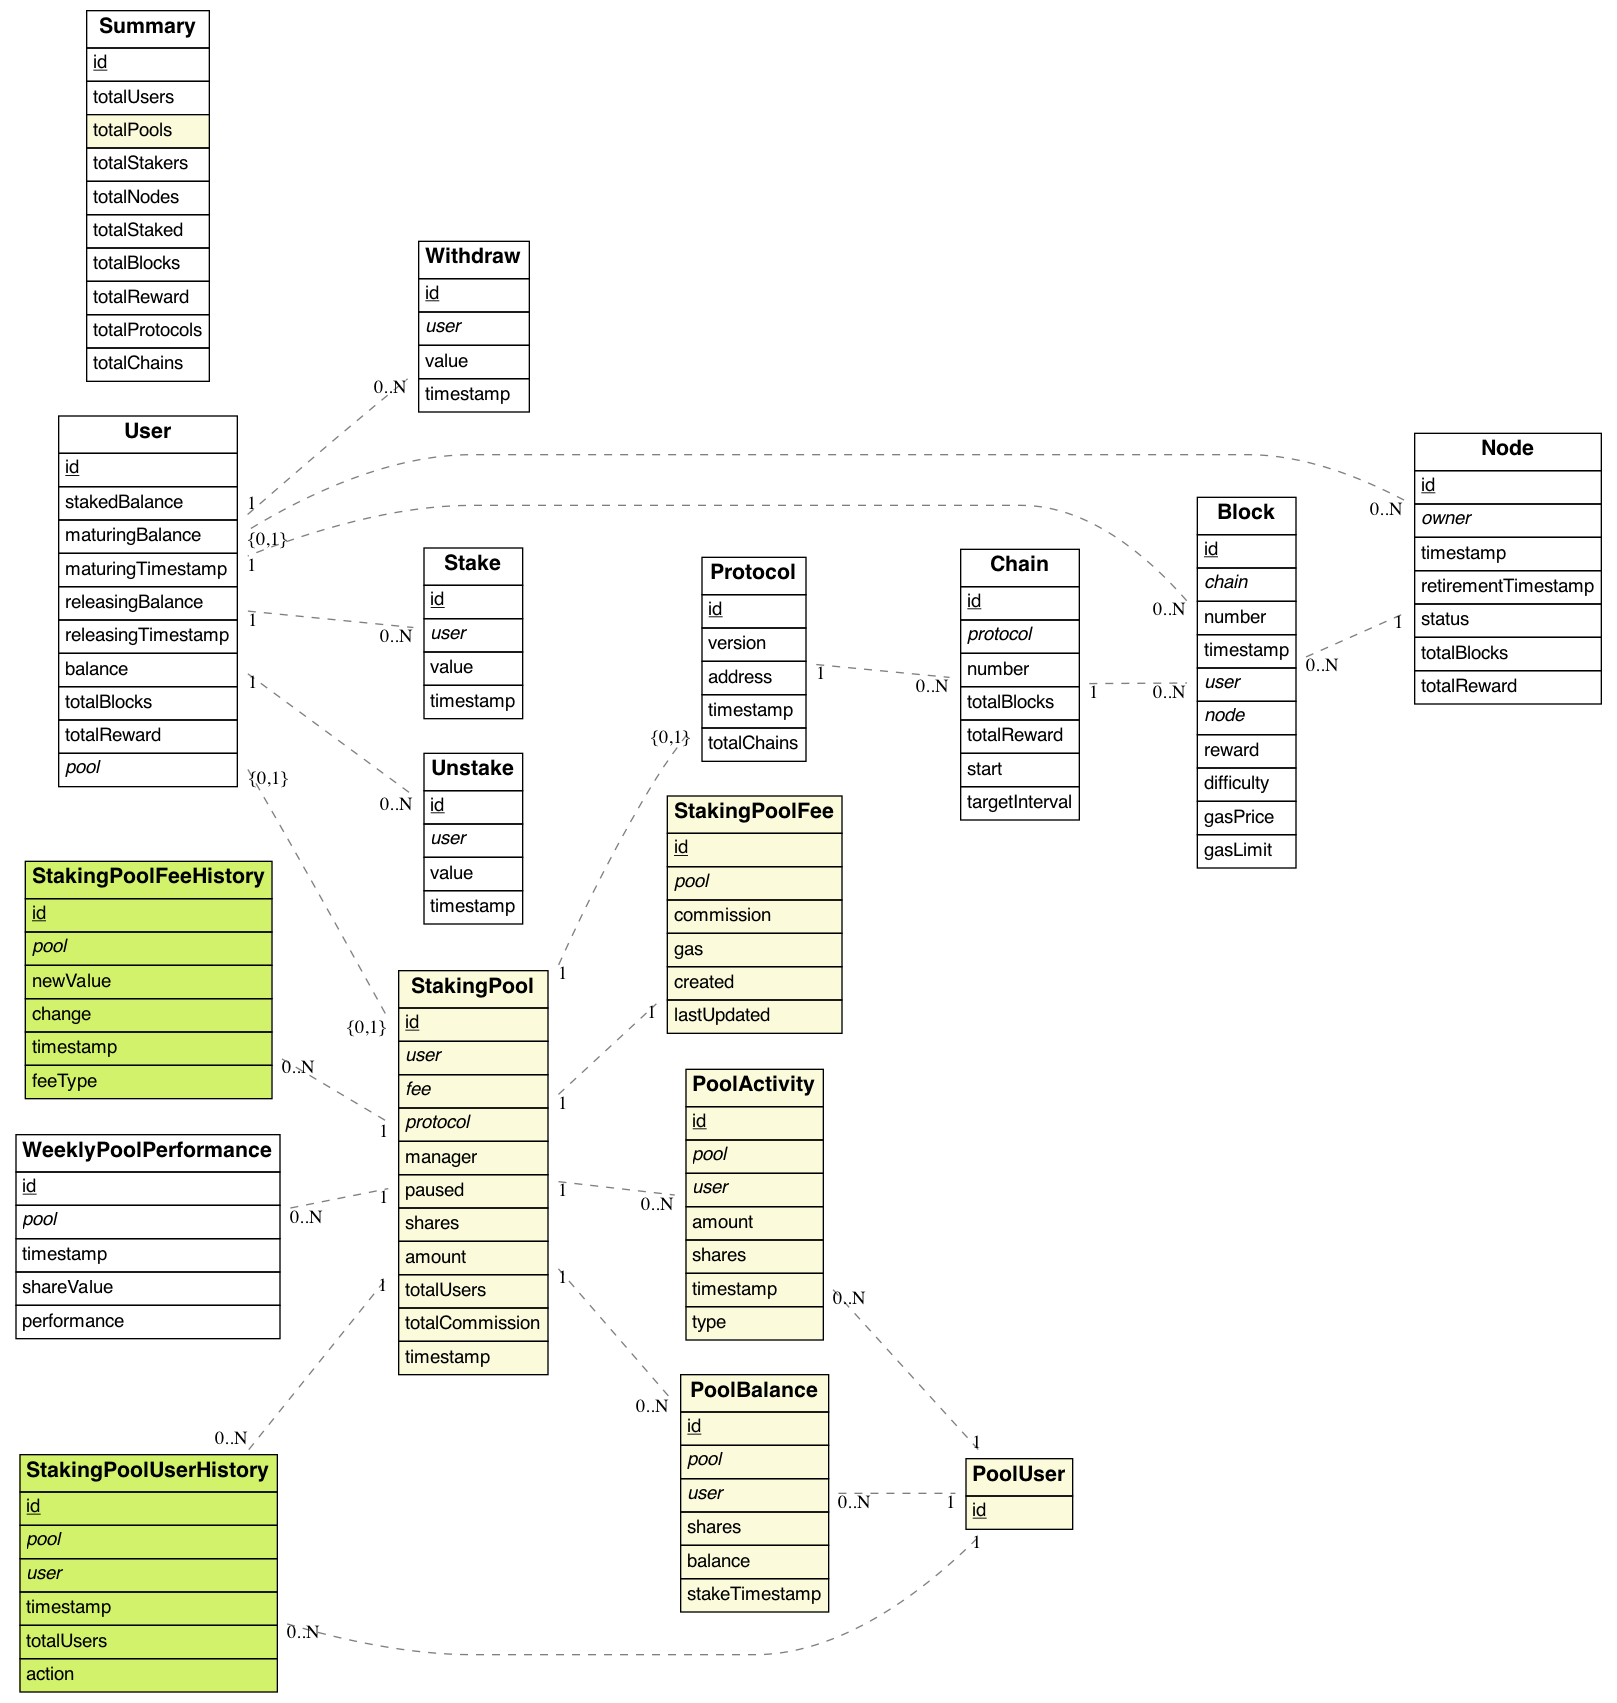
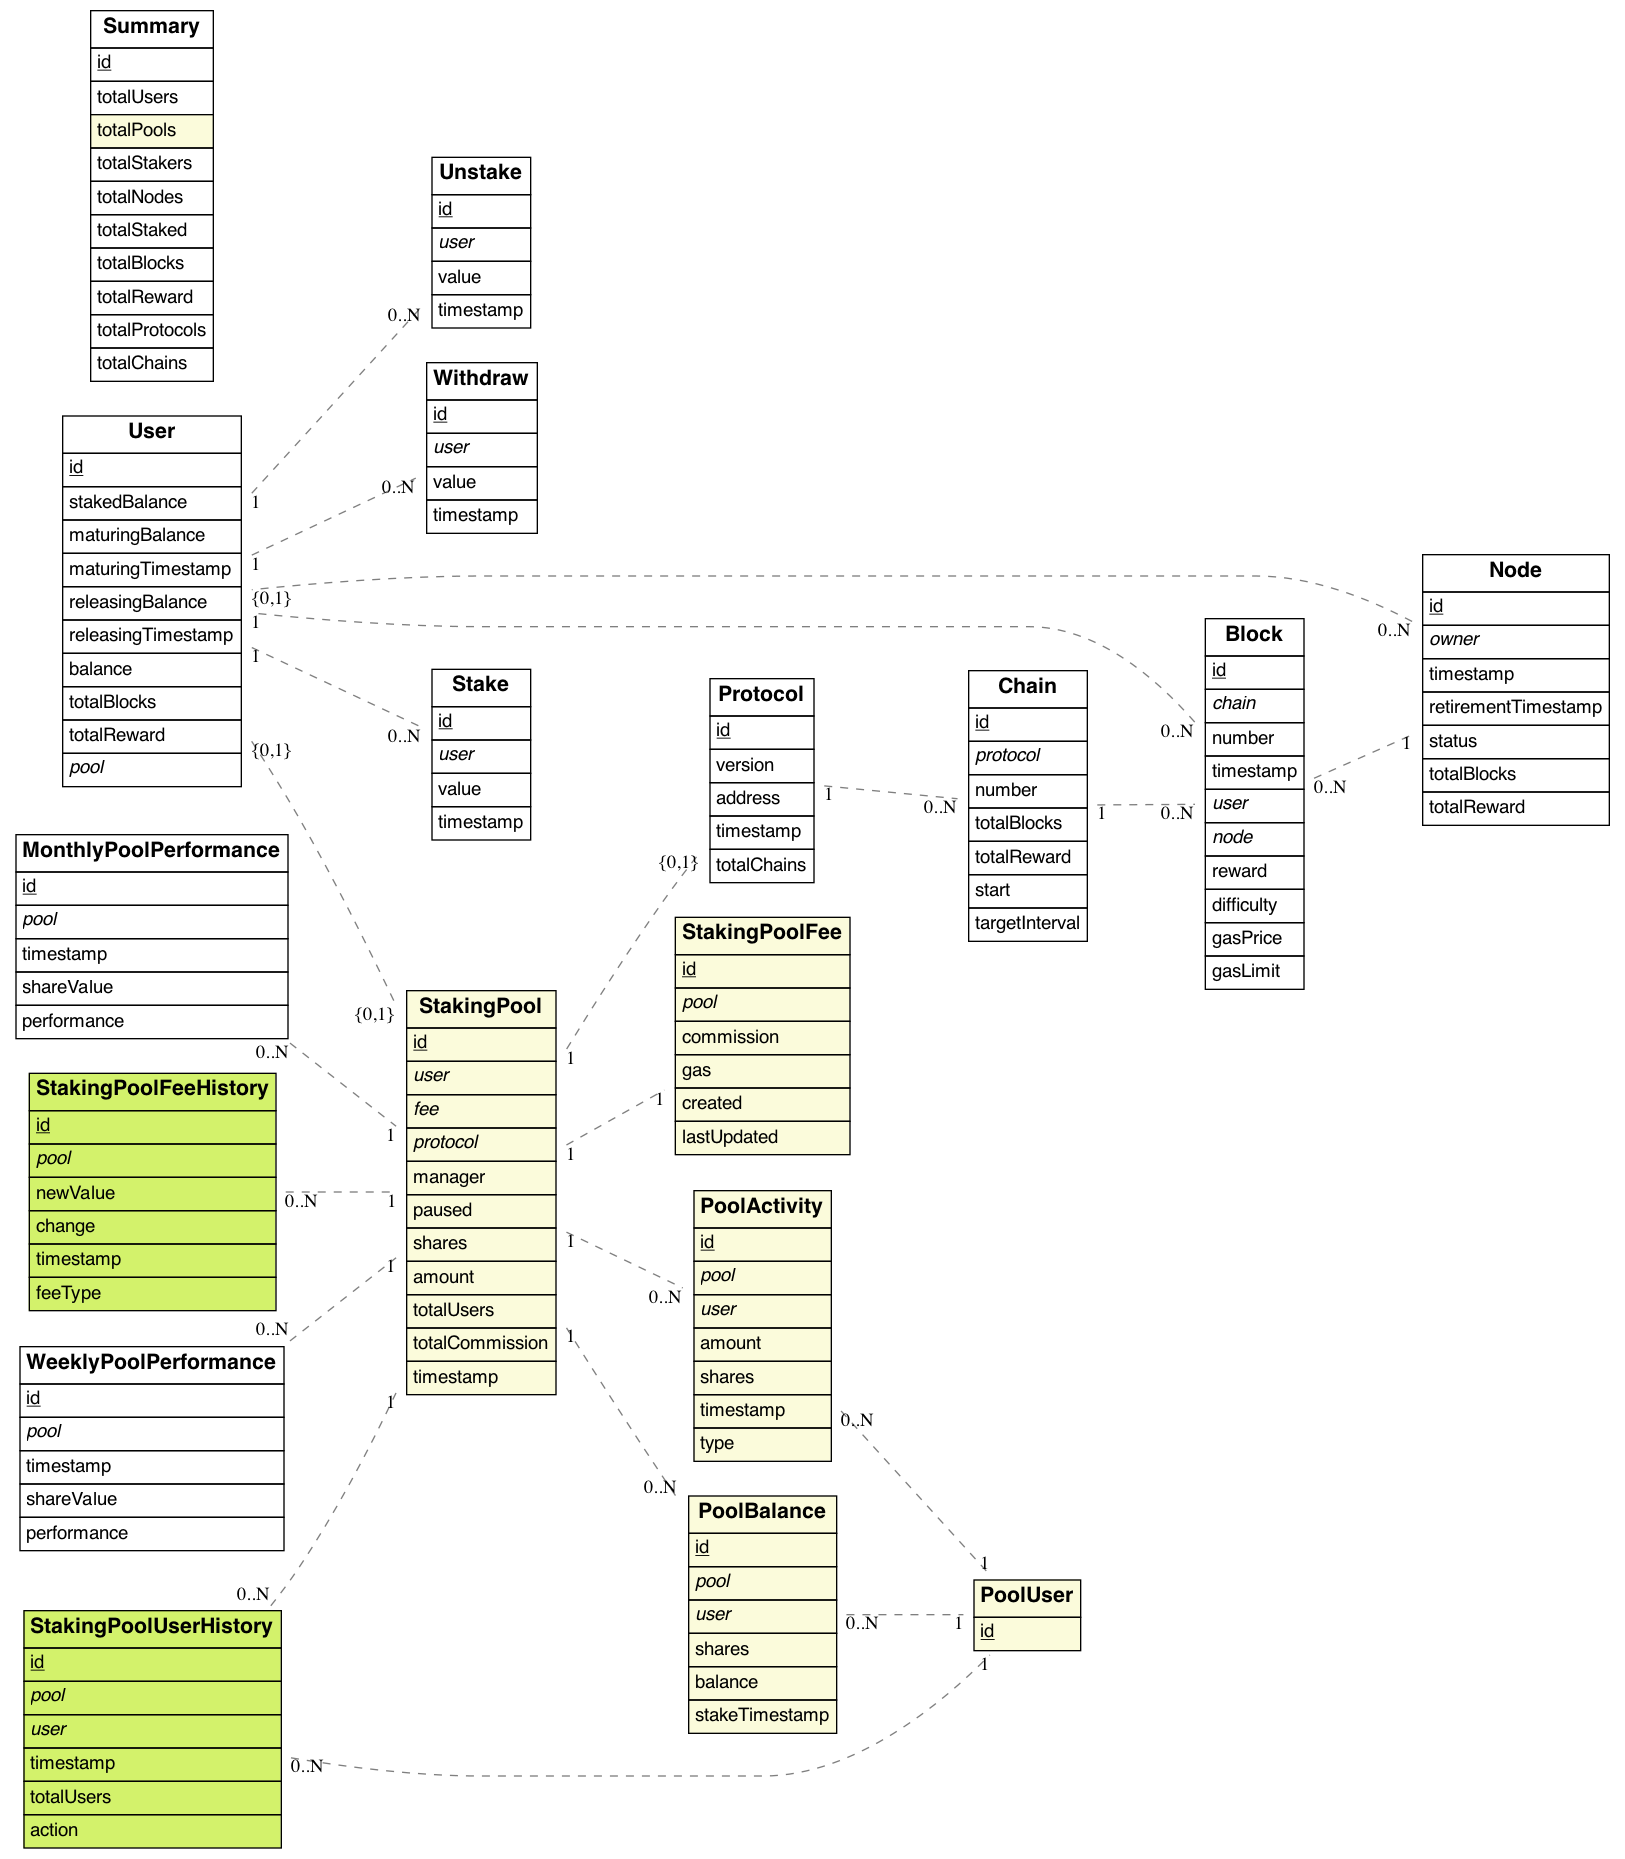
Add monthly performance on schema and calculation

diff --git a/packages/pos-subgraph/src/pool.ts b/packages/pos-subgraph/src/pool.ts
@@ -23,6 +23,7 @@ import {
     StakingPoolUserHistory,
     Protocol,
     WeeklyPoolPerformance,
+    MonthlyPoolPerformance,
 } from "../generated/schema"
 import { PoSV2Impl } from "../generated/templates/PoSV2Impl/PoSV2Impl"
 import { StakingPoolImpl } from "../generated/templates/StakingPoolImpl/StakingPoolImpl"
@@ -397,6 +398,33 @@ export function handleBlockProduced(event: BlockProduced): void {
         .times(BigInt.fromString("1000000000"))
         .divDecimal(pool.shares.toBigDecimal())
     weeklyPoolPerformance.save()
+
+    // save to monthlyPoolPerformance 
+    let month = event.block.timestamp.toI32() / 2628000
+    let monthlyPoolPerformanceId = pool.id + '-' + month.toString()
+    // Collection Address - Month
+    let monthlyPoolPerformance = MonthlyPoolPerformance.load(monthlyPoolPerformanceId)
+    
+    if (!monthlyPoolPerformance) {
+        monthlyPoolPerformance = new MonthlyPoolPerformance(weeklyPoolPerformanceId)
+        monthlyPoolPerformance.timestamp = event.block.timestamp
+        monthlyPoolPerformance.pool = pool.id
+        monthlyPoolPerformance.shareValue = pool.amount
+        .times(BigInt.fromString("1000000000"))
+        .divDecimal(pool.shares.toBigDecimal())
+        
+        // Check the previous month shareValue, if there is any value reduce the current month shareValue with the previous month share value. If it is null, then set the current month shareValue as performance
+        let previousMonth = month - 1
+        let previousMonthId = pool.id + '-' + previousMonth.toString()
+        let previousMonthPerformance = MonthlyPoolPerformance.load(previousMonthId) 
+        let monthlyPerformance = previousMonthPerformance ? previousMonthPerformance.shareValue : BigInt.fromI32(1).toBigDecimal()
+        monthlyPoolPerformance.performance = monthlyPoolPerformance.shareValue.minus(monthlyPerformance)
+    }
+    // Updating monthly share value
+    monthlyPoolPerformance.performance = pool.amount
+        .times(BigInt.fromString("1000000000"))
+        .divDecimal(pool.shares.toBigDecimal())
+    monthlyPoolPerformance.save()
 }
 
 export function handlePaused(event: Paused): void {
